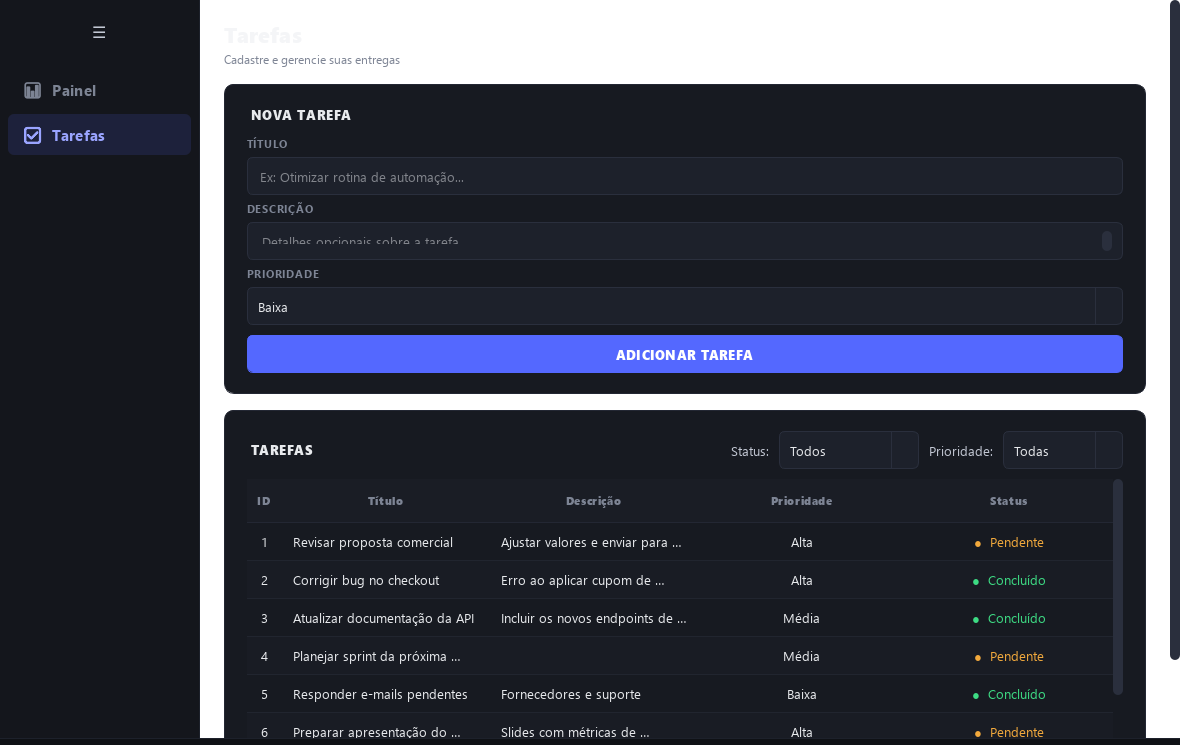
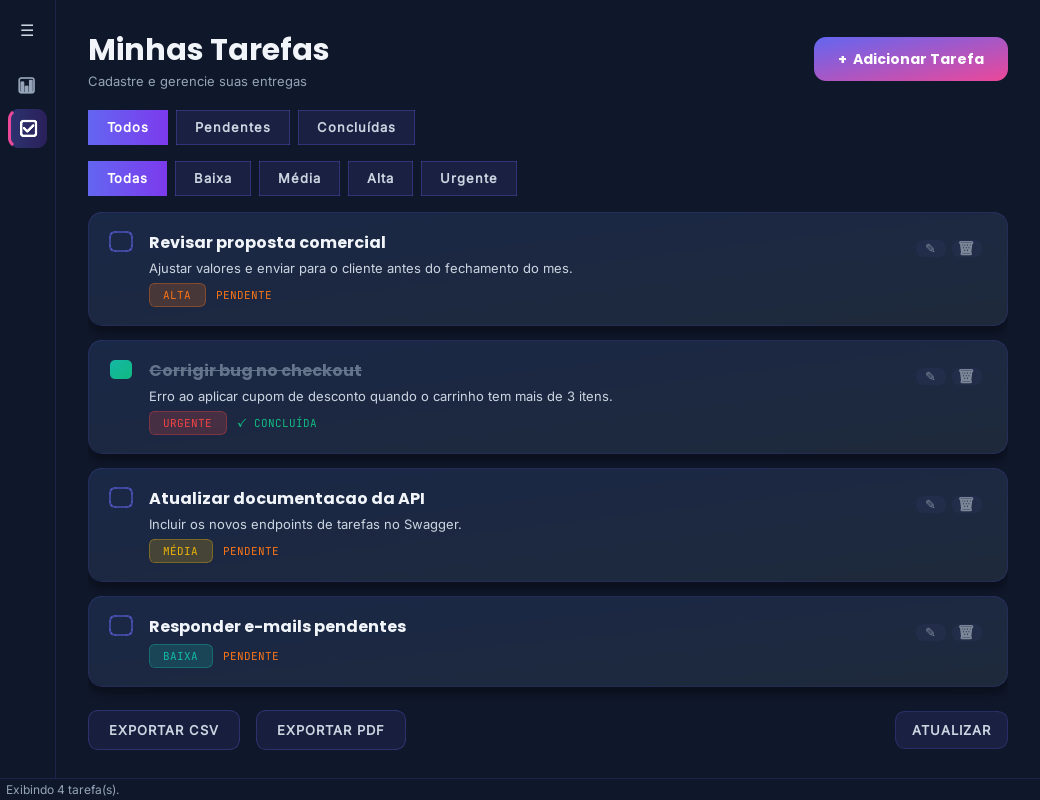
Atualiza README com screenshots e descrição do novo design

diff --git a/readme.md b/readme.md
@@ -33,13 +33,14 @@ O backend (API) roda embutido no próprio processo do app — não existe mais u
 ## ✨ Funcionalidades
 
 - **Autenticação JWT** — registro e login, com senhas armazenadas via hash `bcrypt`.
-- **CRUD de tarefas** isolado por usuário (cada usuário só vê e altera suas próprias tarefas).
-- **Filtros** por status e prioridade.
+- **CRUD completo de tarefas** (criar, editar, concluir/reabrir, excluir) isolado por usuário.
+- **Cards de tarefa** com prioridade colorida, status e ações de editar/excluir, em vez de uma tabela genérica.
+- **Modal de criar/editar tarefa**, com filtros por status e prioridade em pills.
 - **Painel analítico** com gráfico de rosca e indicadores (total, concluídas, taxa de conclusão).
 - **Navegação lateral colapsável** (menu ☰), separando Painel e Tarefas.
 - **Notificações na bandeja do sistema** (`QSystemTrayIcon`) ao criar ou concluir uma tarefa.
 - **Exportação de relatórios** do histórico de tarefas em **CSV** e **PDF** formatado.
-- **Tema visual profissional** (dark mode) via Qt Style Sheets.
+- **Design system autoral** (índigo/magenta/teal sobre deep navy), com Poppins/Inter/JetBrains Mono embutidas e micro-interações (glow animado no hover dos cards).
 
 ---
 
@@ -54,7 +55,8 @@ O backend (API) roda embutido no próprio processo do app — não existe mais u
 
 ### **Frontend Desktop**
 - **PyQt5** — interface gráfica nativa.
-- **QSS (Qt Style Sheets)** — tema dark customizado.
+- **QSS (Qt Style Sheets)** — design system customizado, com gradientes e animações de hover feitas em código (`QPropertyAnimation` + `QGraphicsDropShadowEffect`).
+- **Poppins / Inter / JetBrains Mono** — fontes embutidas via `QFontDatabase` (SIL Open Font License).
 - **QtChart** — gráfico de rosca do painel analítico.
 - **QtPrintSupport** — geração de relatórios em PDF.
 - **Requests** — comunicação com a API.
@@ -84,7 +86,7 @@ Gestor-de-Tarefas/
 │   └── requirements-dev.txt  # Dependências de desenvolvimento (inclui pytest)
 │
 ├── desktop/                  # Cliente Gráfico Nativo
-│   ├── assets/                # Estilos QSS e ícone do executável
+│   ├── assets/                # Estilos QSS, fontes embutidas e ícone do executável
 │   ├── services/               # Integração HTTP com a API + servidor embutido (empacotado)
 │   ├── views/                   # Janelas e componentes em PyQt5
 │   ├── main.py                # Ponto de entrada da GUI
